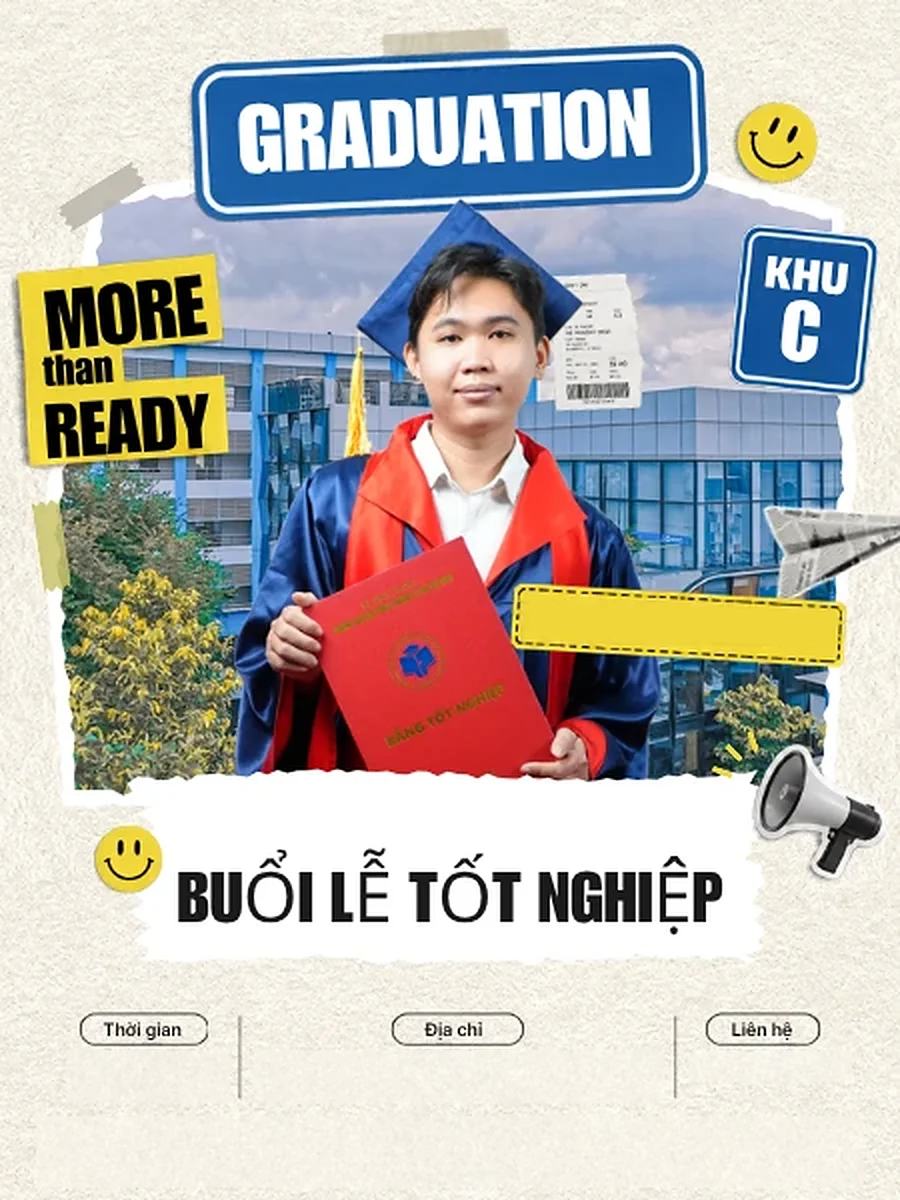
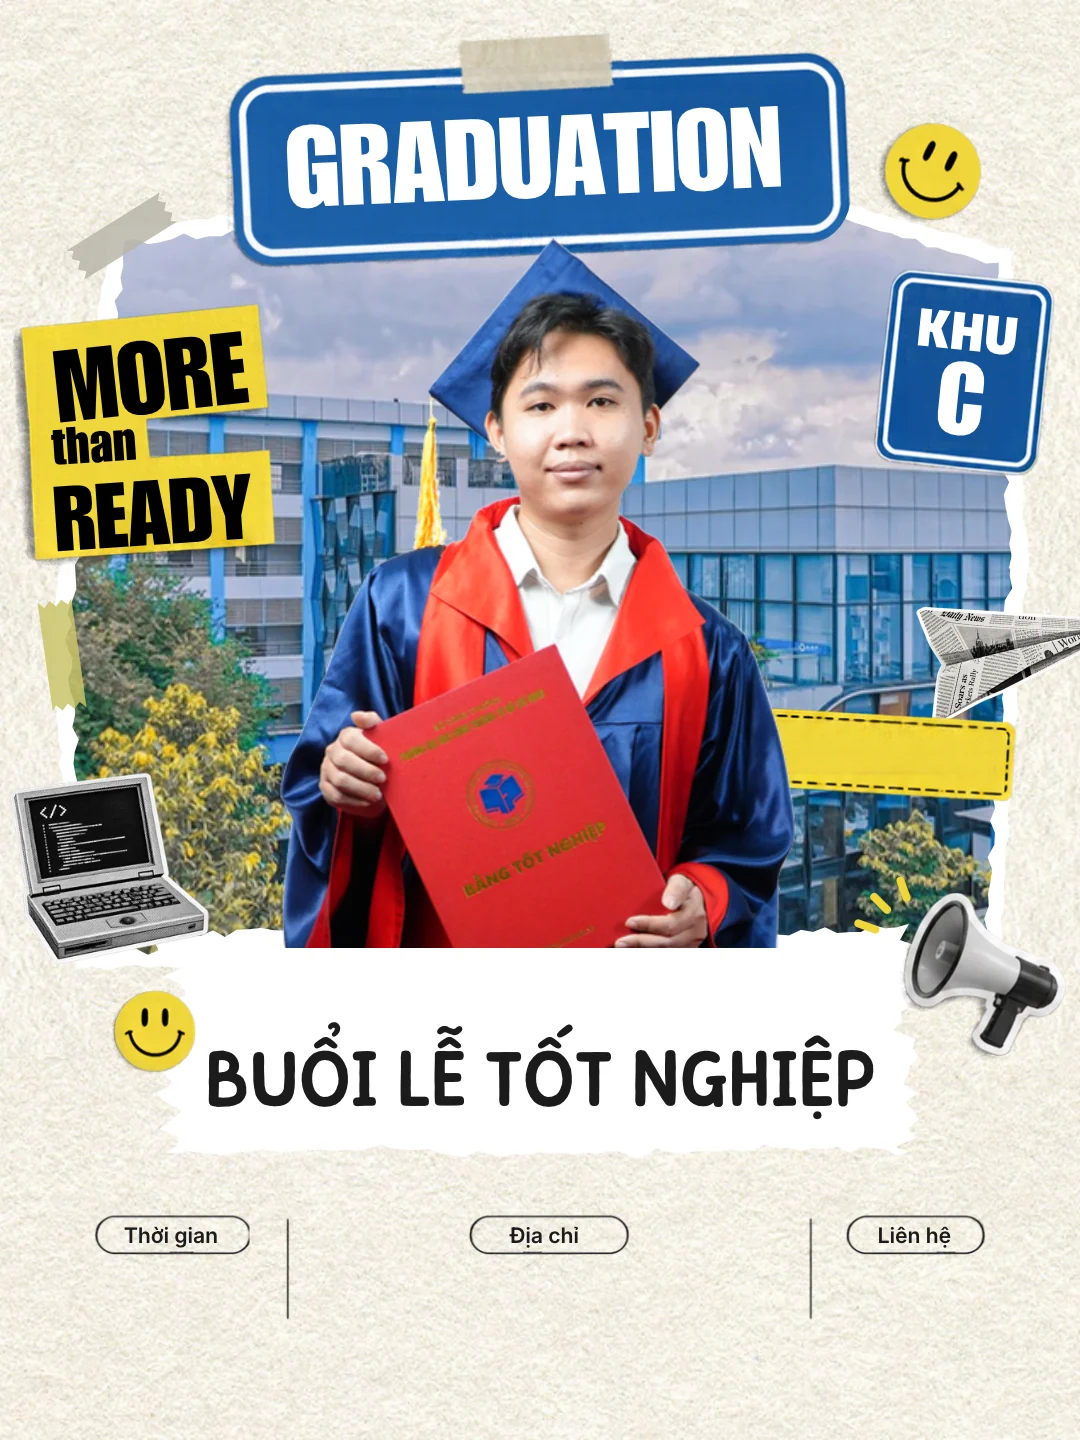
Thay thiệp bằng thiết kế Canva mới, đặt lại các ô chữ theo toạ độ Canva
- Ảnh nền 1080×1440 xuất từ bản sao Canva đã xoá chữ cần điền
- Bảng tên vàng chỉ ghi tên trên phần bảng lộ ra (nghiêng 3,75°)
- Dòng "Thư mời tham dự"/"Kính mời …", 3 cột thông tin và lời nhắn theo đúng vị trí, cỡ chữ trong Canva

diff --git a/src/components/CollageInvite.tsx b/src/components/CollageInvite.tsx
@@ -6,7 +6,7 @@ import { formatCeremony } from '../config/invitation'
 /**
  * Thiệp mời: ảnh nền thiết kế sẵn (public/thiep-nen.webp) + chữ tự điền vào 4 chỗ đã xoá trên ảnh:
  * bảng tên vàng, dòng trên "BUỔI LỄ TỐT NGHIỆP", 3 cột thông tin và lời nhắn.
- * Toạ độ theo khung gốc 720×960 (= ảnh 450×600 × 1,6), thu phóng cho vừa bề rộng khung chứa.
+ * Ảnh nền xuất từ Canva (1080×1440, đã xoá các chữ cần điền). Toạ độ theo khung 720×960 (= Canva × 2/3).
  */
 const W = 720
 const H = 960
@@ -17,7 +17,7 @@ const Slot: React.FC<{ cx: number; top: number; width: number; rotate?: number; 
   <div style={{ position: 'absolute', left: cx - width / 2, top, width, transform: rotate ? `rotate(${rotate}deg)` : undefined, textAlign: 'center' }}>{children}</div>
 )
 
-const INFO_TEXT: React.CSSProperties = { fontWeight: 600, lineHeight: 1.35, color: '#1a1a1a' }
+const INFO_TEXT: React.CSSProperties = { fontWeight: 600, lineHeight: 1.5, color: '#1b1b1b' }
 
 /** memo: chỉ vẽ lại khi nội dung thiệp hoặc tên khách đổi */
 export const CollageInvite = memo(function CollageInvite({ inv, guestName }: { inv: Invitation; guestName?: string }) {
@@ -33,8 +33,9 @@ export const CollageInvite = memo(function CollageInvite({ inv, guestName }: { i
     return () => ro.disconnect()
   }, [])
 
-  const phone = inv.phone.replace(/(\d{4})(\d{3})(\d+)/, '$1 $2 $3')
+  // "Hội trường C – Lầu 3, Khu nhà C" → chỉ lấy phần trước dấu phẩy cho vừa thiệp
   const hall = inv.ceremonyHall.split(',')[0].trim()
+  const phone = inv.phone.replace(/(\d{4})(\d{3})(\d+)/, '$1 $2 $3')
 
   return (
     <div
@@ -60,36 +61,36 @@ export const CollageInvite = memo(function CollageInvite({ inv, guestName }: { i
       >
         <img src={BG} alt="" width={W} height={H} decoding="async" fetchPriority="high" style={{ position: 'absolute', inset: 0, width: W, height: H, display: 'block' }} />
 
-        {/* Bảng tên vàng – nghiêng 3,3° theo đúng mép tấm bảng (đo từ ảnh nền) */}
-        <Slot cx={544} top={490} width={232} rotate={3.3}>
-          <FitText max={18} min={9} style={{ fontWeight: 800, letterSpacing: '.01em', color: '#1d1d0f', lineHeight: 1.45 }}>
-            {`${inv.degreeTitle} ${inv.graduateName}`.toUpperCase()}
+        {/* Bảng tên vàng – nửa trái bị ảnh người che (như thiết kế Canva) nên chỉ ghi tên trên phần bảng lộ ra, nghiêng 3,75° */}
+        <Slot cx={594} top={496} width={148} rotate={3.75}>
+          <FitText max={16} min={8} style={{ fontWeight: 800, color: '#000', lineHeight: 1.2 }}>
+            {inv.graduateName.toUpperCase()}
           </FitText>
         </Slot>
 
         {/* Dòng trên tiêu đề: "THƯ MỜI THAM DỰ" hoặc "KÍNH MỜI CÔ LAN" khi gửi riêng */}
-        <Slot cx={360} top={642} width={440}>
-          <FitText max={19} min={11} style={{ fontWeight: guestName ? 800 : 700, letterSpacing: '.03em', color: guestName ? '#b91c1c' : '#111', lineHeight: 1.45 }}>
+        <Slot cx={360} top={641} width={430}>
+          <FitText max={22} min={12} style={{ fontWeight: 800, letterSpacing: '.01em', color: guestName ? '#b91c1c' : '#000', lineHeight: 1.2 }}>
             {guestName ? `KÍNH MỜI ${guestName.toUpperCase()}` : 'THƯ MỜI THAM DỰ'}
           </FitText>
         </Slot>
 
-        {/* 3 cột thông tin (nhãn & đường kẻ có sẵn trên ảnh) */}
-        <Slot cx={119} top={840} width={136}>
-          <FitText max={15.5} min={10} style={INFO_TEXT}>{`${c.time} – ${c.weekday}`}</FitText>
-          <FitText max={15.5} min={10} style={INFO_TEXT}>{`Ngày ${c.date}`}</FitText>
+        {/* 3 cột thông tin (nhãn & vạch ngăn có sẵn trên ảnh) */}
+        <Slot cx={114} top={843.5} width={122}>
+          <FitText max={13.7} min={9} style={INFO_TEXT}>{`${c.time} – ${c.weekday}`}</FitText>
+          <FitText max={13.7} min={9} style={INFO_TEXT}>{`Ngày ${c.date}`}</FitText>
         </Slot>
-        <Slot cx={367} top={840} width={326}>
-          <FitText max={15.5} min={10} style={INFO_TEXT}>{`${hall}, ĐH Công Thương TP.HCM`}</FitText>
-          <FitText max={15.5} min={10} style={INFO_TEXT}>140 Lê Trọng Tấn, Tân Phú</FitText>
+        <Slot cx={362.7} top={843.5} width={330}>
+          <FitText max={13.7} min={9} style={INFO_TEXT}>{`${hall}, ĐH Công Thương TP.HCM`}</FitText>
+          <FitText max={13.7} min={9} style={INFO_TEXT}>140 Lê Trọng Tấn, Tân Phú</FitText>
         </Slot>
-        <Slot cx={616} top={840} width={132}>
-          <FitText max={15.5} min={10} style={INFO_TEXT}>{phone}</FitText>
+        <Slot cx={609.6} top={843.5} width={112}>
+          <FitText max={14.3} min={9} style={INFO_TEXT}>{phone}</FitText>
         </Slot>
 
         {/* Lời nhắn: tự thu nhỏ cho vừa khung dưới cùng */}
-        <div style={{ position: 'absolute', left: 40, right: 40, top: 894, height: 56 }}>
-          <FitText as="p" mode="box" max={15} min={9} maxHeight={56} style={{ margin: 0, textAlign: 'center', fontStyle: 'italic', fontWeight: 500, lineHeight: 1.45, color: '#222' }}>
+        <div style={{ position: 'absolute', left: 80, width: 560, top: 901, height: 54 }}>
+          <FitText as="p" mode="box" max={13.9} min={7.5} maxHeight={54} style={{ margin: 0, textAlign: 'center', fontStyle: 'italic', fontWeight: 600, lineHeight: 1.4, color: '#1b1b1b' }}>
             {inv.message}
           </FitText>
         </div>
